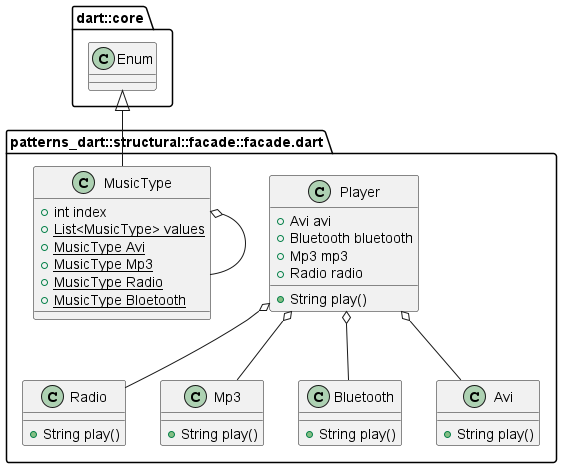
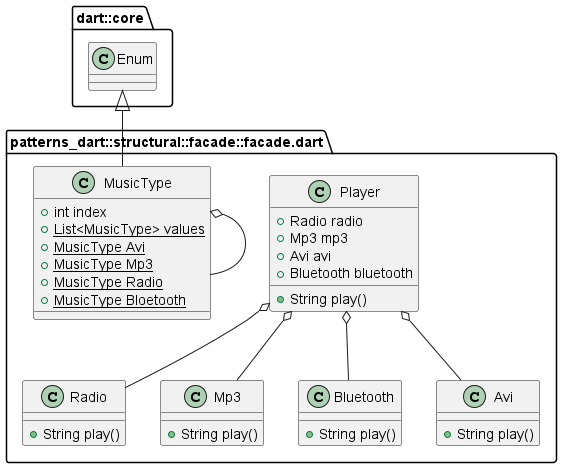
add visitor

Changed region(s): [[0.5142, 0.4487, 0.726, 0.5983]]

diff --git a/lib/behavioral/visitor/visitor.dart b/lib/behavioral/visitor/visitor.dart
@@ -1,0 +1,130 @@
+// Посетитель — это поведенческий паттерн проектирования,
+//  который позволяет добавлять в программу новые операции,
+//  не изменяя классы объектов, над которыми эти операции могут выполняться
+
+abstract class Visitor {
+  visitSquare(Square triangle);
+  visitRectangle(Rectangle rectangle);
+  visitCircle(Circle circle);
+}
+
+abstract class Shape {
+  move(int x, int y);
+  draw();
+  accept(Visitor visitor);
+}
+
+class Square implements Shape {
+  int x = 0;
+  int y = 0;
+  int width = 10;
+
+  @override
+  move(int x, int y) {
+    this.x = x;
+    this.y = y;
+  }
+
+  @override
+  draw() {
+    print('x: $x, y: $y');
+  }
+
+  @override
+  accept(Visitor visitor) {
+    visitor.visitSquare(this);
+  }
+}
+
+class Rectangle implements Shape {
+  int x = 0;
+  int y = 0;
+  int width = 10;
+  int height = 20;
+  @override
+  move(int x, int y) {
+    this.x = x;
+    this.y = y;
+  }
+
+  @override
+  draw() {
+    print('x: $x, y: $y');
+  }
+
+  @override
+  accept(Visitor visitor) {
+    visitor.visitRectangle(this);
+  }
+}
+
+class Circle implements Shape {
+  int x = 0;
+  int y = 0;
+
+  int radius = 5;
+  @override
+  move(int x, int y) {
+    this.x = x;
+    this.y = y;
+  }
+
+  @override
+  draw() {
+    print('x: $x, y: $y');
+  }
+
+  @override
+  accept(Visitor visitor) {
+    visitor.visitCircle(this);
+  }
+}
+
+class AreaVisitor implements Visitor {
+  late Circle circle;
+  late Rectangle rectangle;
+  late Square square;
+
+  @override
+  visitCircle(Circle circle) {
+    this.circle = circle;
+  }
+
+  @override
+  visitRectangle(Rectangle rectangle) {
+    this.rectangle = rectangle;
+  }
+
+  @override
+  visitSquare(Square square) {
+    this.square = square;
+  }
+
+  double getCircleArea() {
+    return 3.14 * (circle.radius * 2);
+  }
+
+  int getRectangleArea() {
+    return rectangle.width * rectangle.height;
+  }
+
+  int getSquareArea() {
+    return square.width * 2;
+  }
+}
+
+void main(List<String> args) {
+  AreaVisitor areaVisitor = AreaVisitor();
+  Square square = Square();
+  square.accept(areaVisitor);
+
+  Rectangle rectangle = Rectangle();
+  rectangle.accept(areaVisitor);
+
+  Circle circle = Circle();
+  circle.accept(areaVisitor);
+
+  print('square-area: ${areaVisitor.getSquareArea()}');
+  print('circle-area: ${areaVisitor.getCircleArea()}');
+  print('rectangle-area: ${areaVisitor.getRectangleArea()}');
+}

diff --git a/lib/structural/facade/facade.dart b/lib/structural/facade/facade.dart
@@ -30,16 +30,10 @@ class Avi {
 enum MusicType { Avi, Mp3, Radio, Bloetooth }
 
 class Player {
-  final Avi avi;
-  final Bluetooth bluetooth;
-  final Mp3 mp3;
-  final Radio radio;
-
-  Player(
-      {required this.radio,
-      required this.mp3,
-      required this.avi,
-      required this.bluetooth});
+  final radio = Radio();
+  final mp3 = Mp3();
+  final avi = Avi();
+  final bluetooth = Bluetooth();
 
   String play(MusicType type) {
     switch (type) {
@@ -58,15 +52,10 @@ class Player {
 }
 
 void main(List<String> args) {
-  final radio = Radio();
-  final mp3 = Mp3();
-  final avi = Avi();
-  final bluetooth = Bluetooth();
-
-  Player player =
-      Player(radio: radio, mp3: mp3, avi: avi, bluetooth: bluetooth);
+  Player player = Player();
 
   if (args.isEmpty) {
+    print('Ведите тип музыкального носителя');
     return;
   }
 
